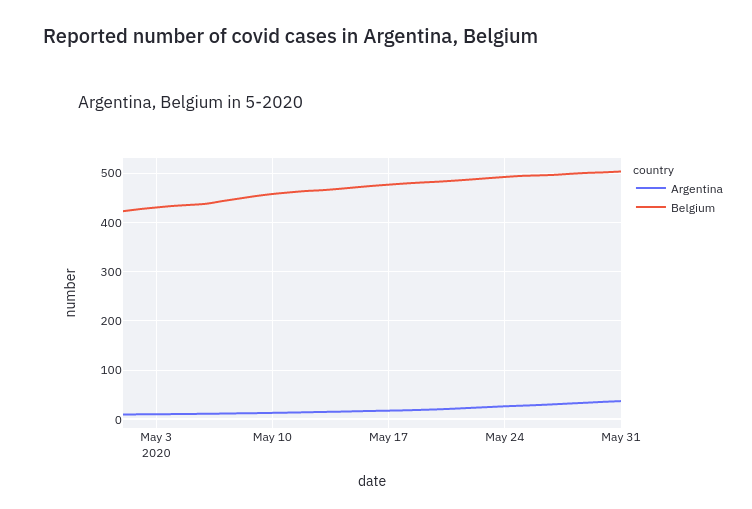
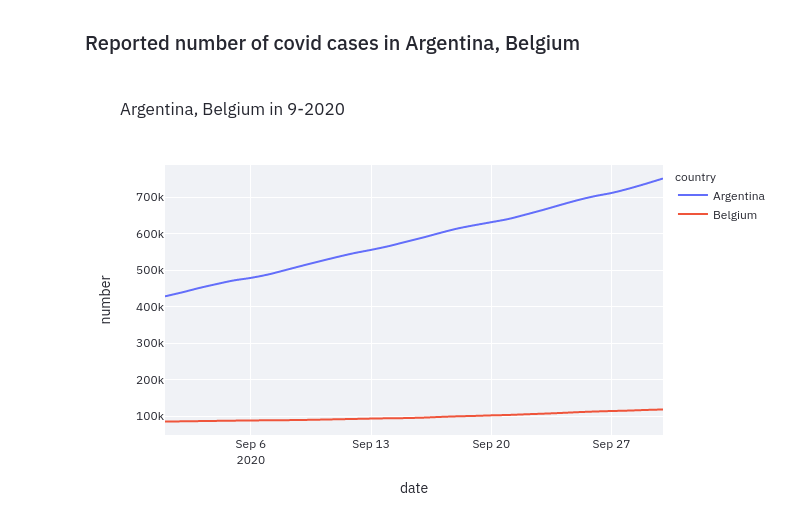
edit readme file and replace two screenshots

diff --git a/README.md b/README.md
@@ -2,19 +2,19 @@
 
 [![SWH](https://archive.softwareheritage.org/badge/swh:1:dir:898f46bbc89e269fefa6e99fbb72a53a5ad4a471/)](https://archive.softwareheritage.org/swh:1:dir:898f46bbc89e269fefa6e99fbb72a53a5ad4a471;origin=https://github.com/rajaben-ali/interactive-covid-19-dashboard.git;visit=swh:1:snp:70ee5afa30ac8bd3171b4f82e7cadb3530eb5920;anchor=swh:1:rev:9df31fd3baefc9c04ce8594ee547064504ec1d2d)
 
-## **About this project**
+## About this project
 
 The "interactive covid-19 dashboard" project is based on the dataset provided by [Johns Hopkins University](https://github.com/CSSEGISandData/COVID-19). The dashboard allows users to visualize the number of Covid-19 cases, deaths or recovered cases per country as a function of time.
 
 ## Streamlit sharing
 Use this link to access directly the dashboard on the streamlit sharing plateform: [interactive dashboard link](https://share.streamlit.io/rajaben-ali/interactive-covid-19-dashboard/main/app.py)
 
-## **Tools**
+## Tools
 **Python** for streamlit script, **Pandas** for data extraction and manipulation, **Plotly** for the interactive plots
 
 **Streamlit** as the Dashboard systems
 
-# Setup configurations
+## Setup configurations
 Clone the repository on your device.
 Create a python virtual environment wit the method of your choice then install the requirements packages as follow:
 ```
@@ -32,8 +32,30 @@ git commit -m "Add library: 'new_package==1.2.3'
 git push
 ```
 
-# Run locally the streamlit dashboard application
+## Run locally the streamlit dashboard application
 Run the following line at the root of the cloned repository and go to the suggested URL.
 ```
 streamlit run app.py
 ```
+
+## Instructions
+
+1. There is a sidebar on the left. The first part of the sidebar is for date time selection.
+
+![don't select any date time](./screenshots/sidebar-01.png)
+
+2. If you don't select any date time, the plot will display the overall time line as below.
+
+![overall time line plot](./screenshots/main-plot-01.png)
+
+3. You can choose one country or several countries as below, the plot will display what you select.
+
+![select several countries](./screenshots/sidebar-02.png)
+
+![display several countries](./screenshots/main-plot-02.png)
+
+4. If you select specific date time, the plot will display the result of all the countries.
+
+![select specific date time](./screenshots/sidebar-03.png)
+
+![display the result of specific date time](./screenshots/main-plot-03.png)
